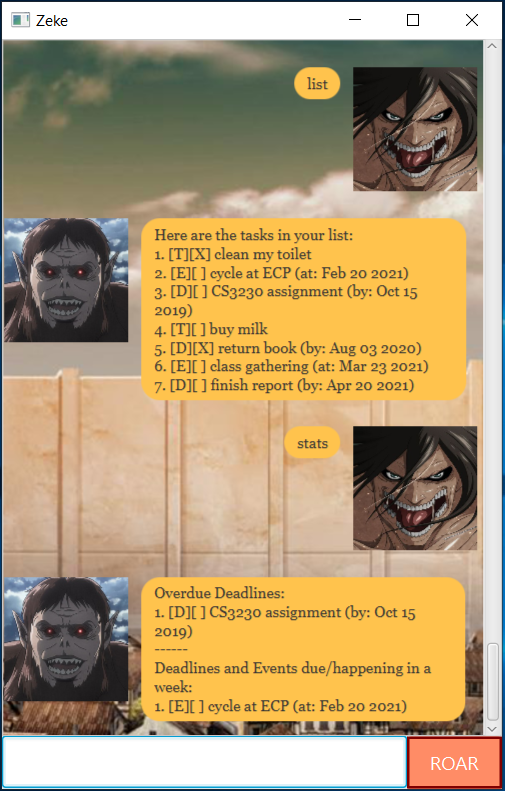
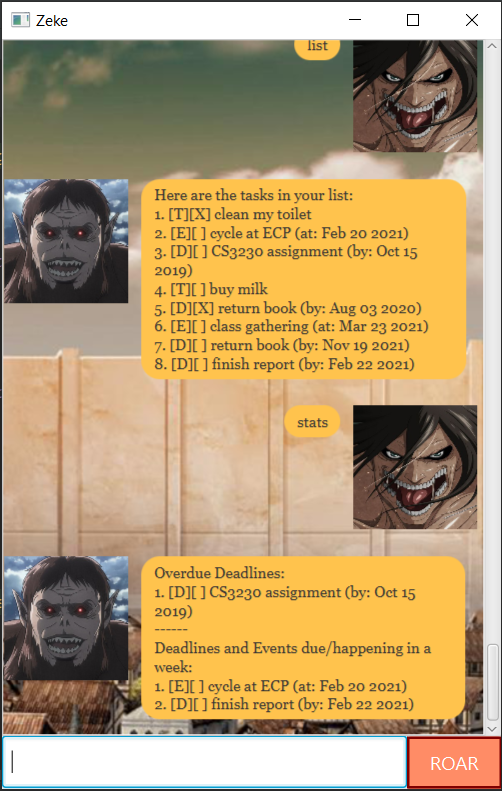
Change some pictures and update readme

diff --git a/docs/README.md b/docs/README.md
@@ -179,7 +179,7 @@ Expected outcome:
 <br>
 
 ## Display statistics 
-Users can see overdue deadlines and events happening soon
+Users can see overdue deadlines, events happening soon and deadlines due soon
 
 ## Usage
 
